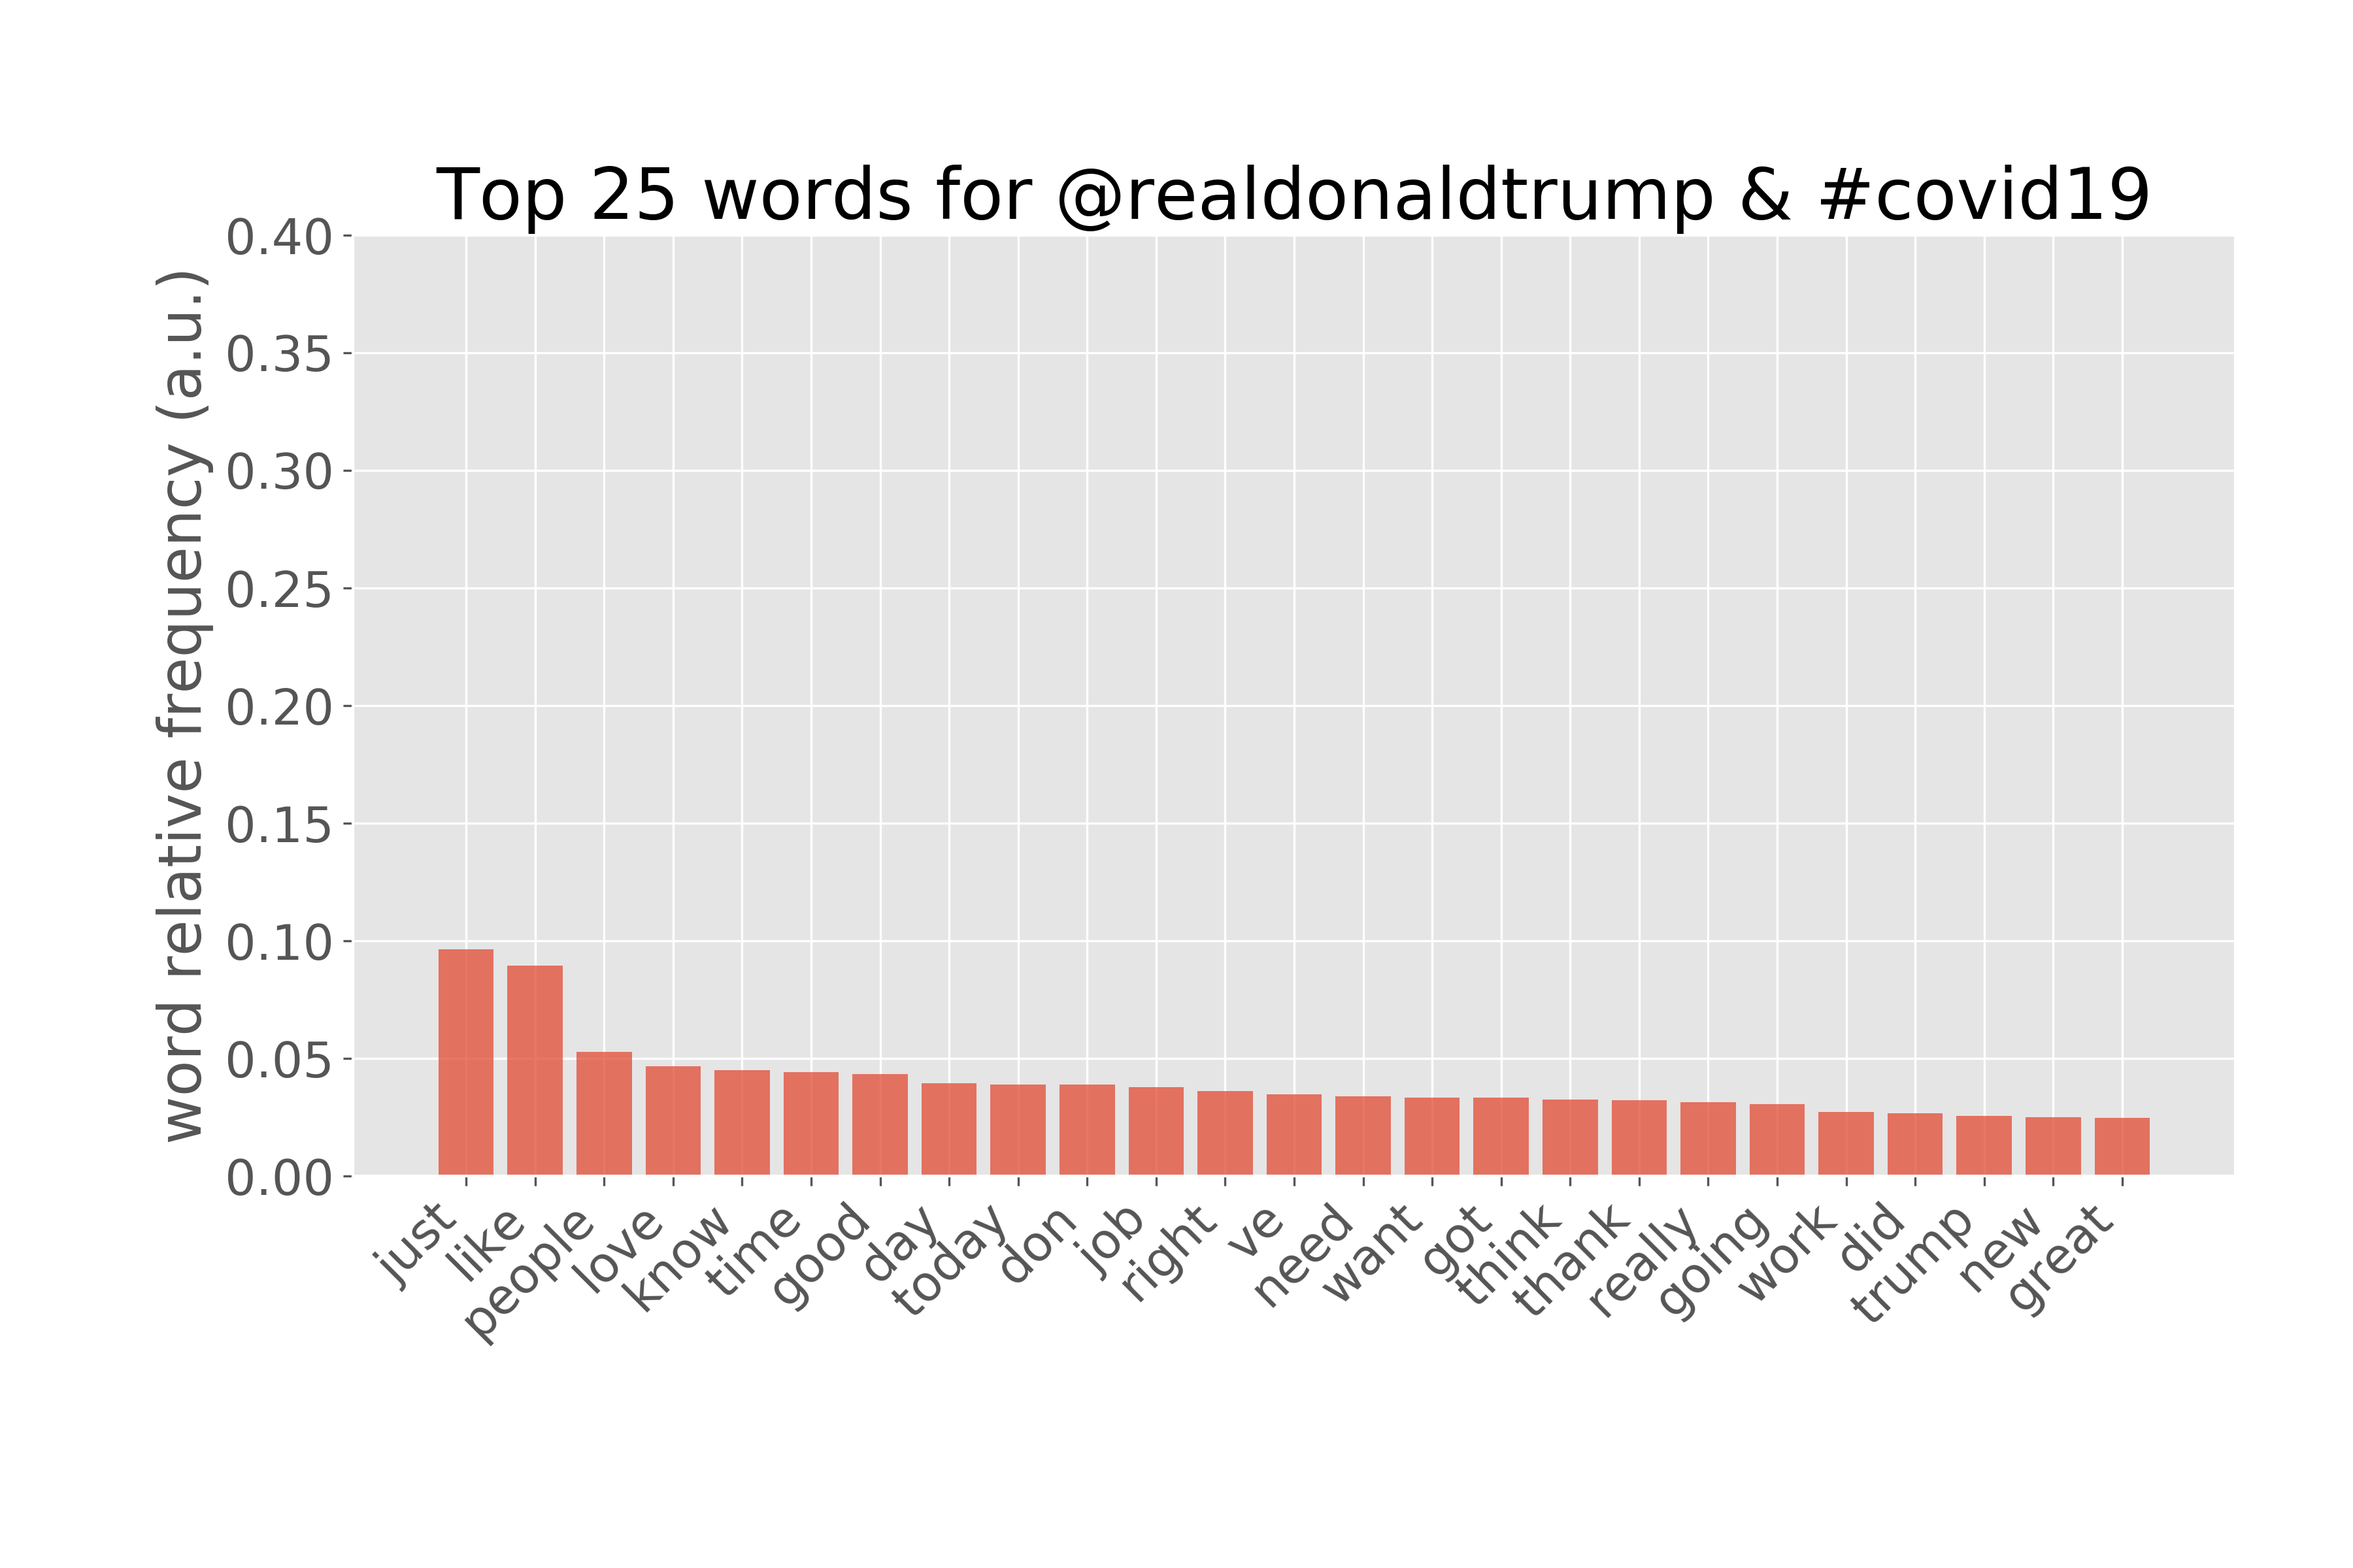
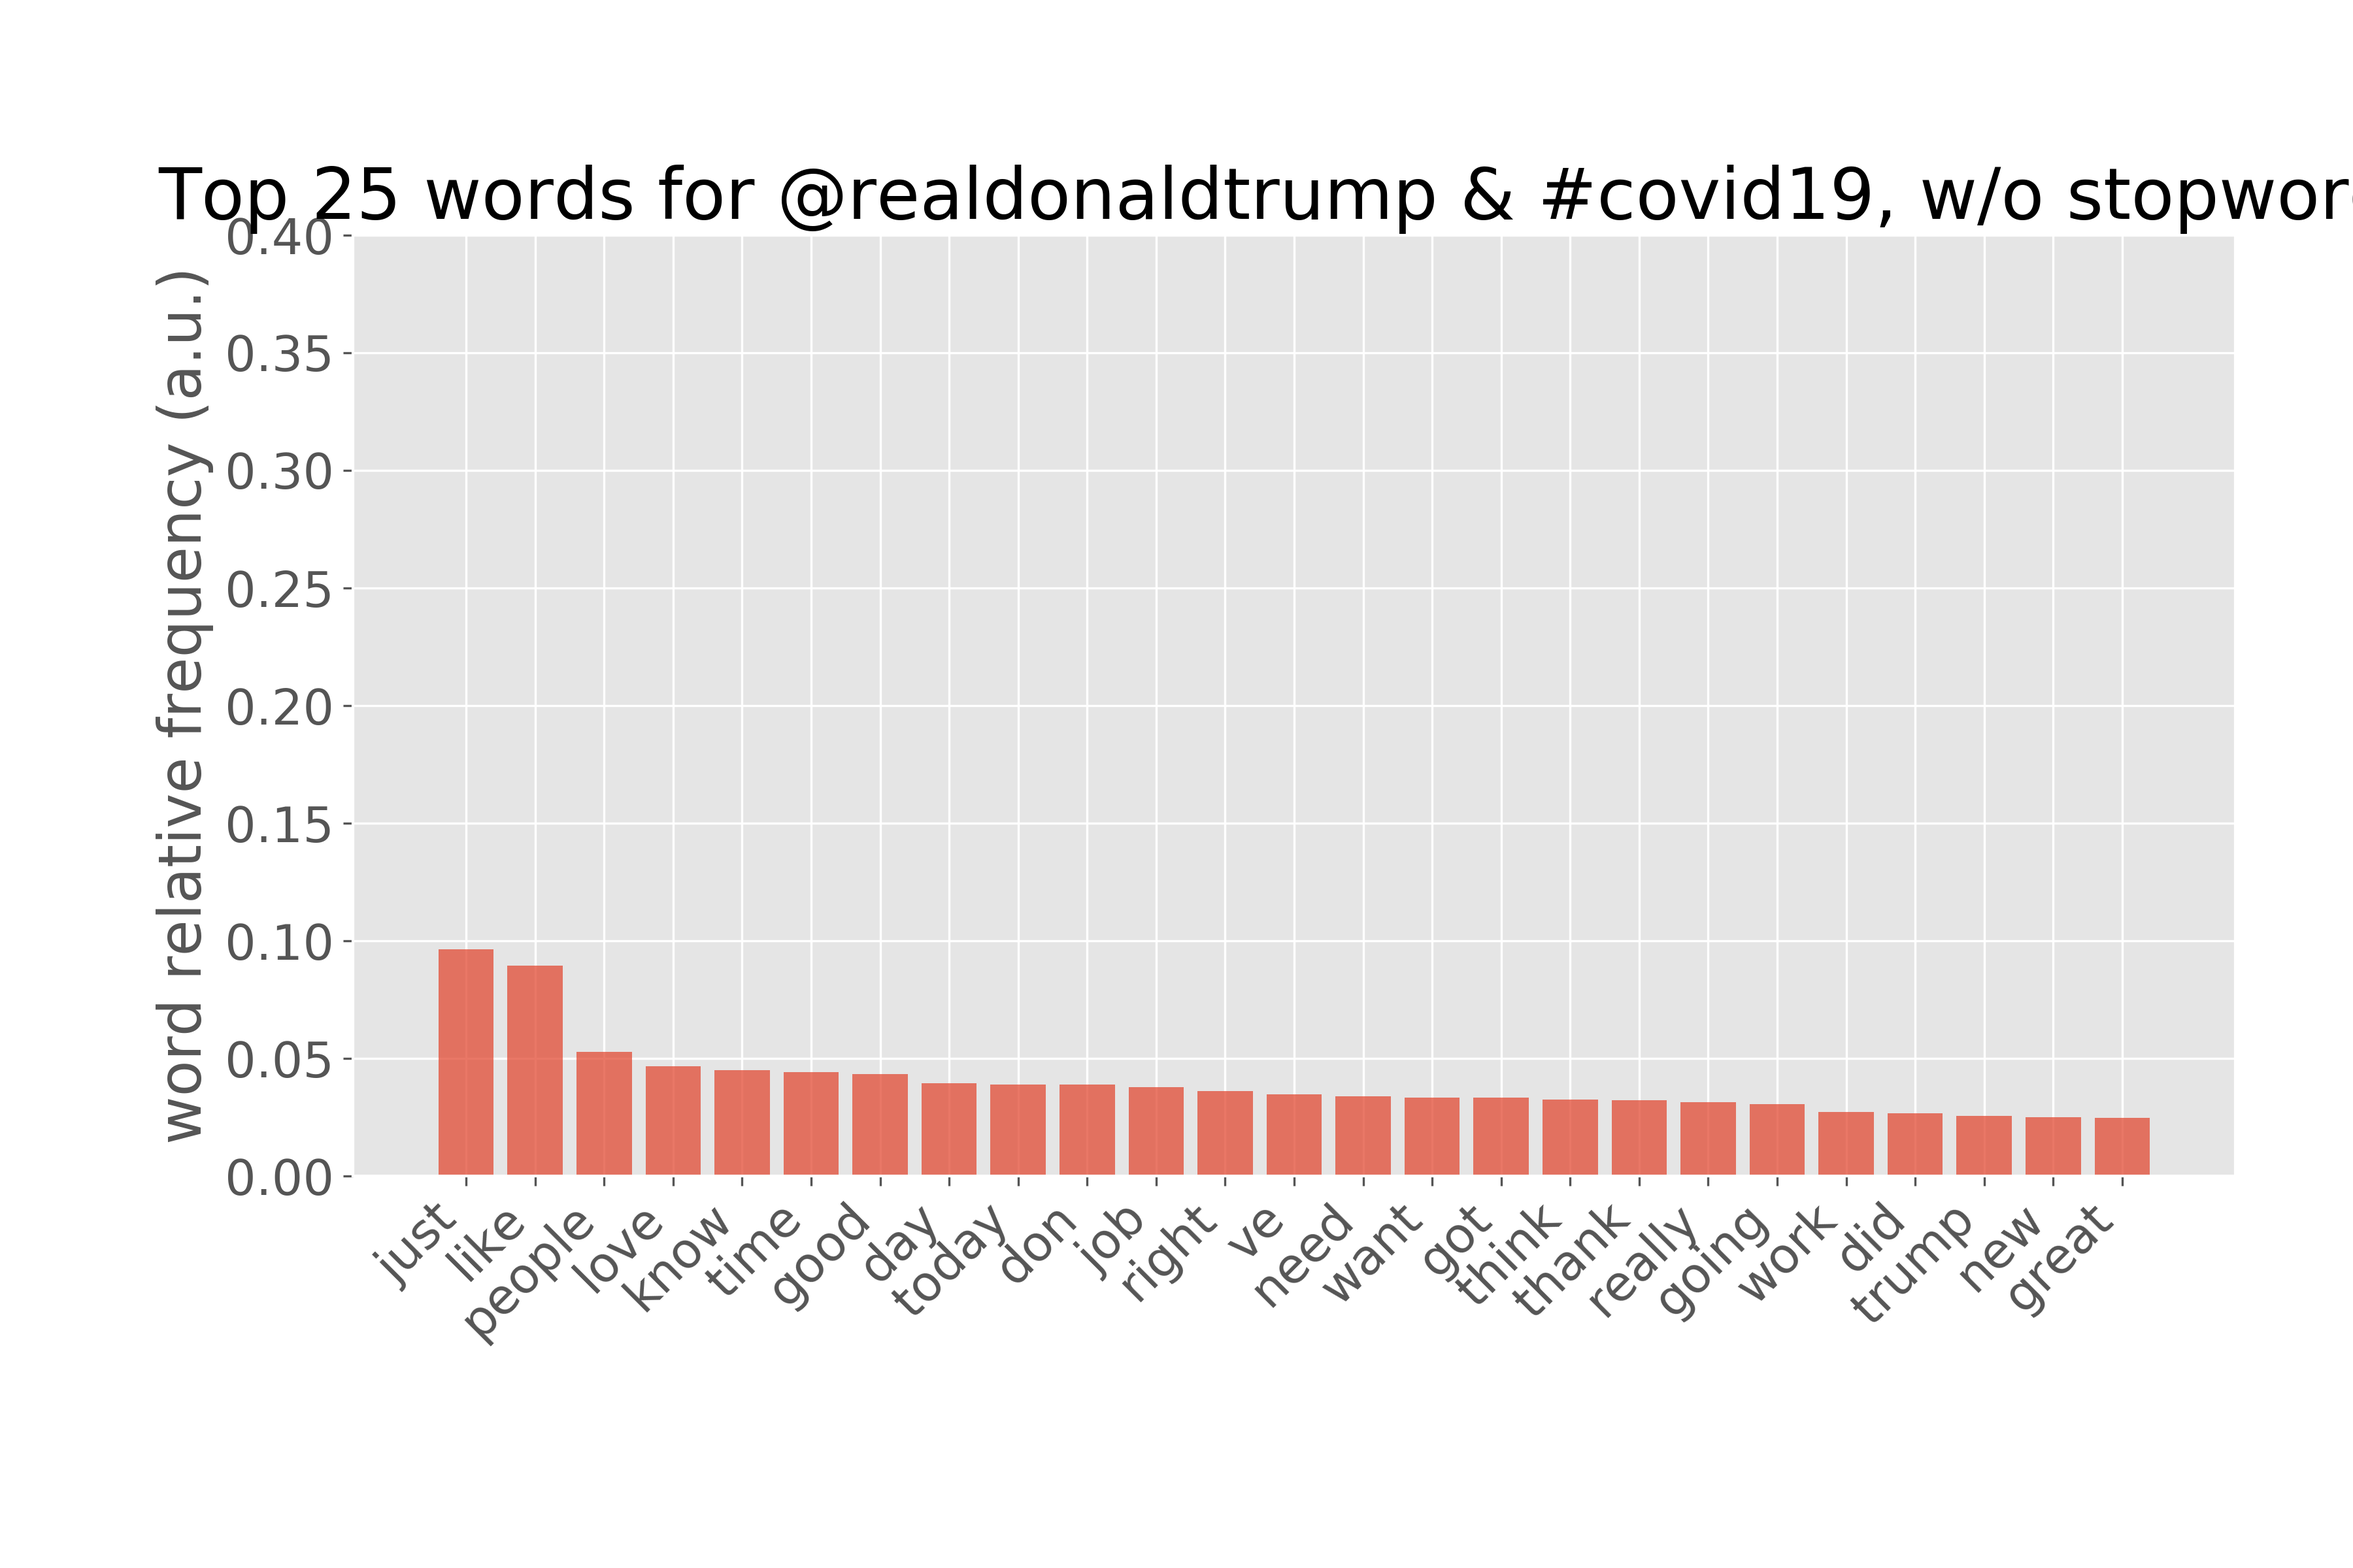
testing README imgs

Changed region(s): [[0.0622, 0.0938, 0.9956, 0.1562]]

diff --git a/src/co_data.py b/src/co_data.py
@@ -181,7 +181,7 @@ if __name__ == '__main__':
 
         # Clean twitter text
         text_cleaner = TextCleaner()
-        clean_tweet_col = co_3_df['tweet_text'].apply(lambda x: text_cleaner.clean_tweets(x,exclude_stopwords=False))
+        clean_tweet_col = co_3_df['tweet_text'].apply(lambda x: text_cleaner.clean_tweets(x,exclude_stopwords=True))
         tweet_emoji = text_cleaner.emoji_list
 
         # # generate wordcloud
@@ -194,8 +194,8 @@ if __name__ == '__main__':
         keys, vals = to_count_list(clean_word_list)
 
         plotter = PlotFormatter()
-        plotter.barchart(0,keys[:25],vals[:25],'word relative frequency (a.u.)',f'Top 25 words for {treatment_dict[select_treatment]}')
-        plotter.save_fig(f'{select_state}_{select_treatment}_top25words.png')
+        plotter.barchart(0,keys[:25],vals[:25],'word relative frequency (a.u.)',f'Top 25 words for {treatment_dict[select_treatment]}, w/o stopwords')
+        plotter.save_fig(f'{select_state}_{select_treatment}_top25words_nostops.png')
 
     # from sklearn.feature_extraction.text import CountVectorizer
 

diff --git a/README.md b/README.md
@@ -19,3 +19,24 @@ Outliine:
 9. MVP+: do 8 for OR/AR
 10. Conclusion
 11. references
+
+<p align="center">
+    <img src="images/co_0_top25words.png" width='400' />
+    <img src="images/co_0_top25words_nostops.png" width = '400' />
+</p>
+<p align="center">
+    <img src="images/co_1_top25words.png" width='400' />
+    <img src="images/co_1_top25words_nostops.png" width = '400' />
+</p>
+<p align="center">
+    <img src="images/co_2_top25words.png" width='400' />
+    <img src="images/co_2_top25words_nostops.png" width = '400' />
+</p>
+<p align="center">
+    <img src="images/co_3_top25words.png" width='400' />
+    <img src="images/co_3_top25words_nostops.png" width = '400' />
+</p>
+<p align="center">
+    <img src="images/co_4_top25words.png" width='400' />
+    <img src="images/co_4_top25words_nostops.png" width = '400' />
+</p>
